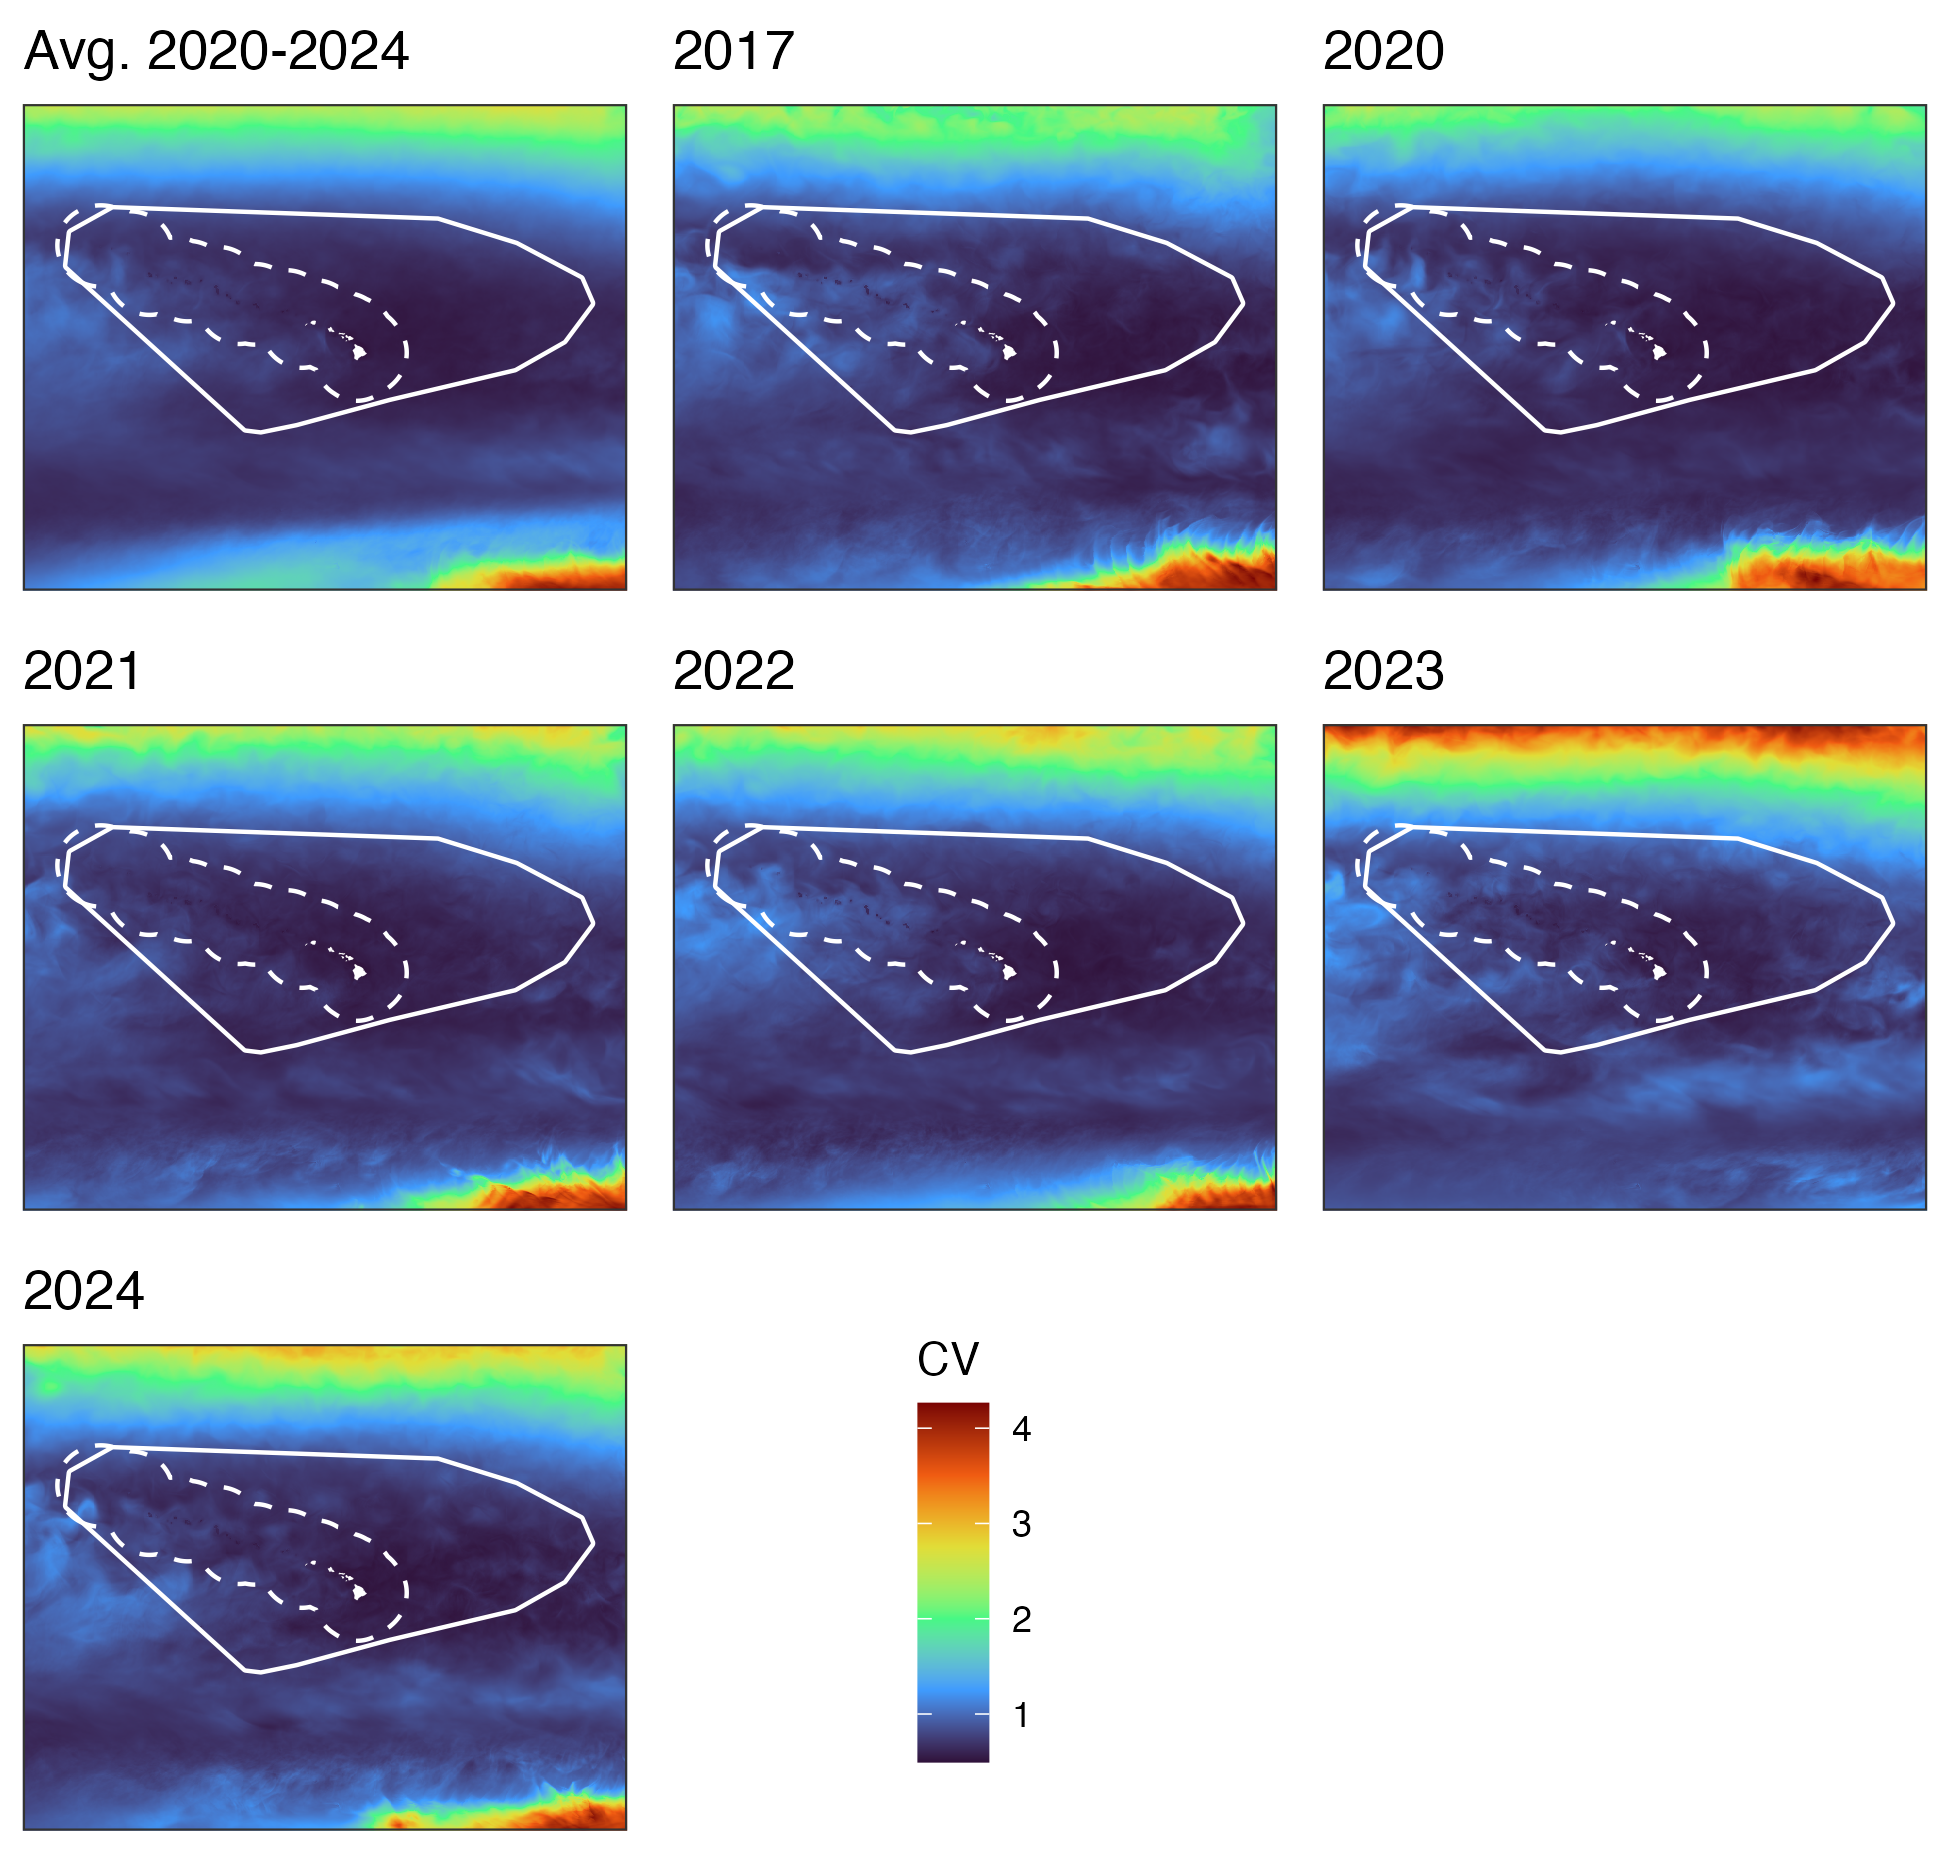
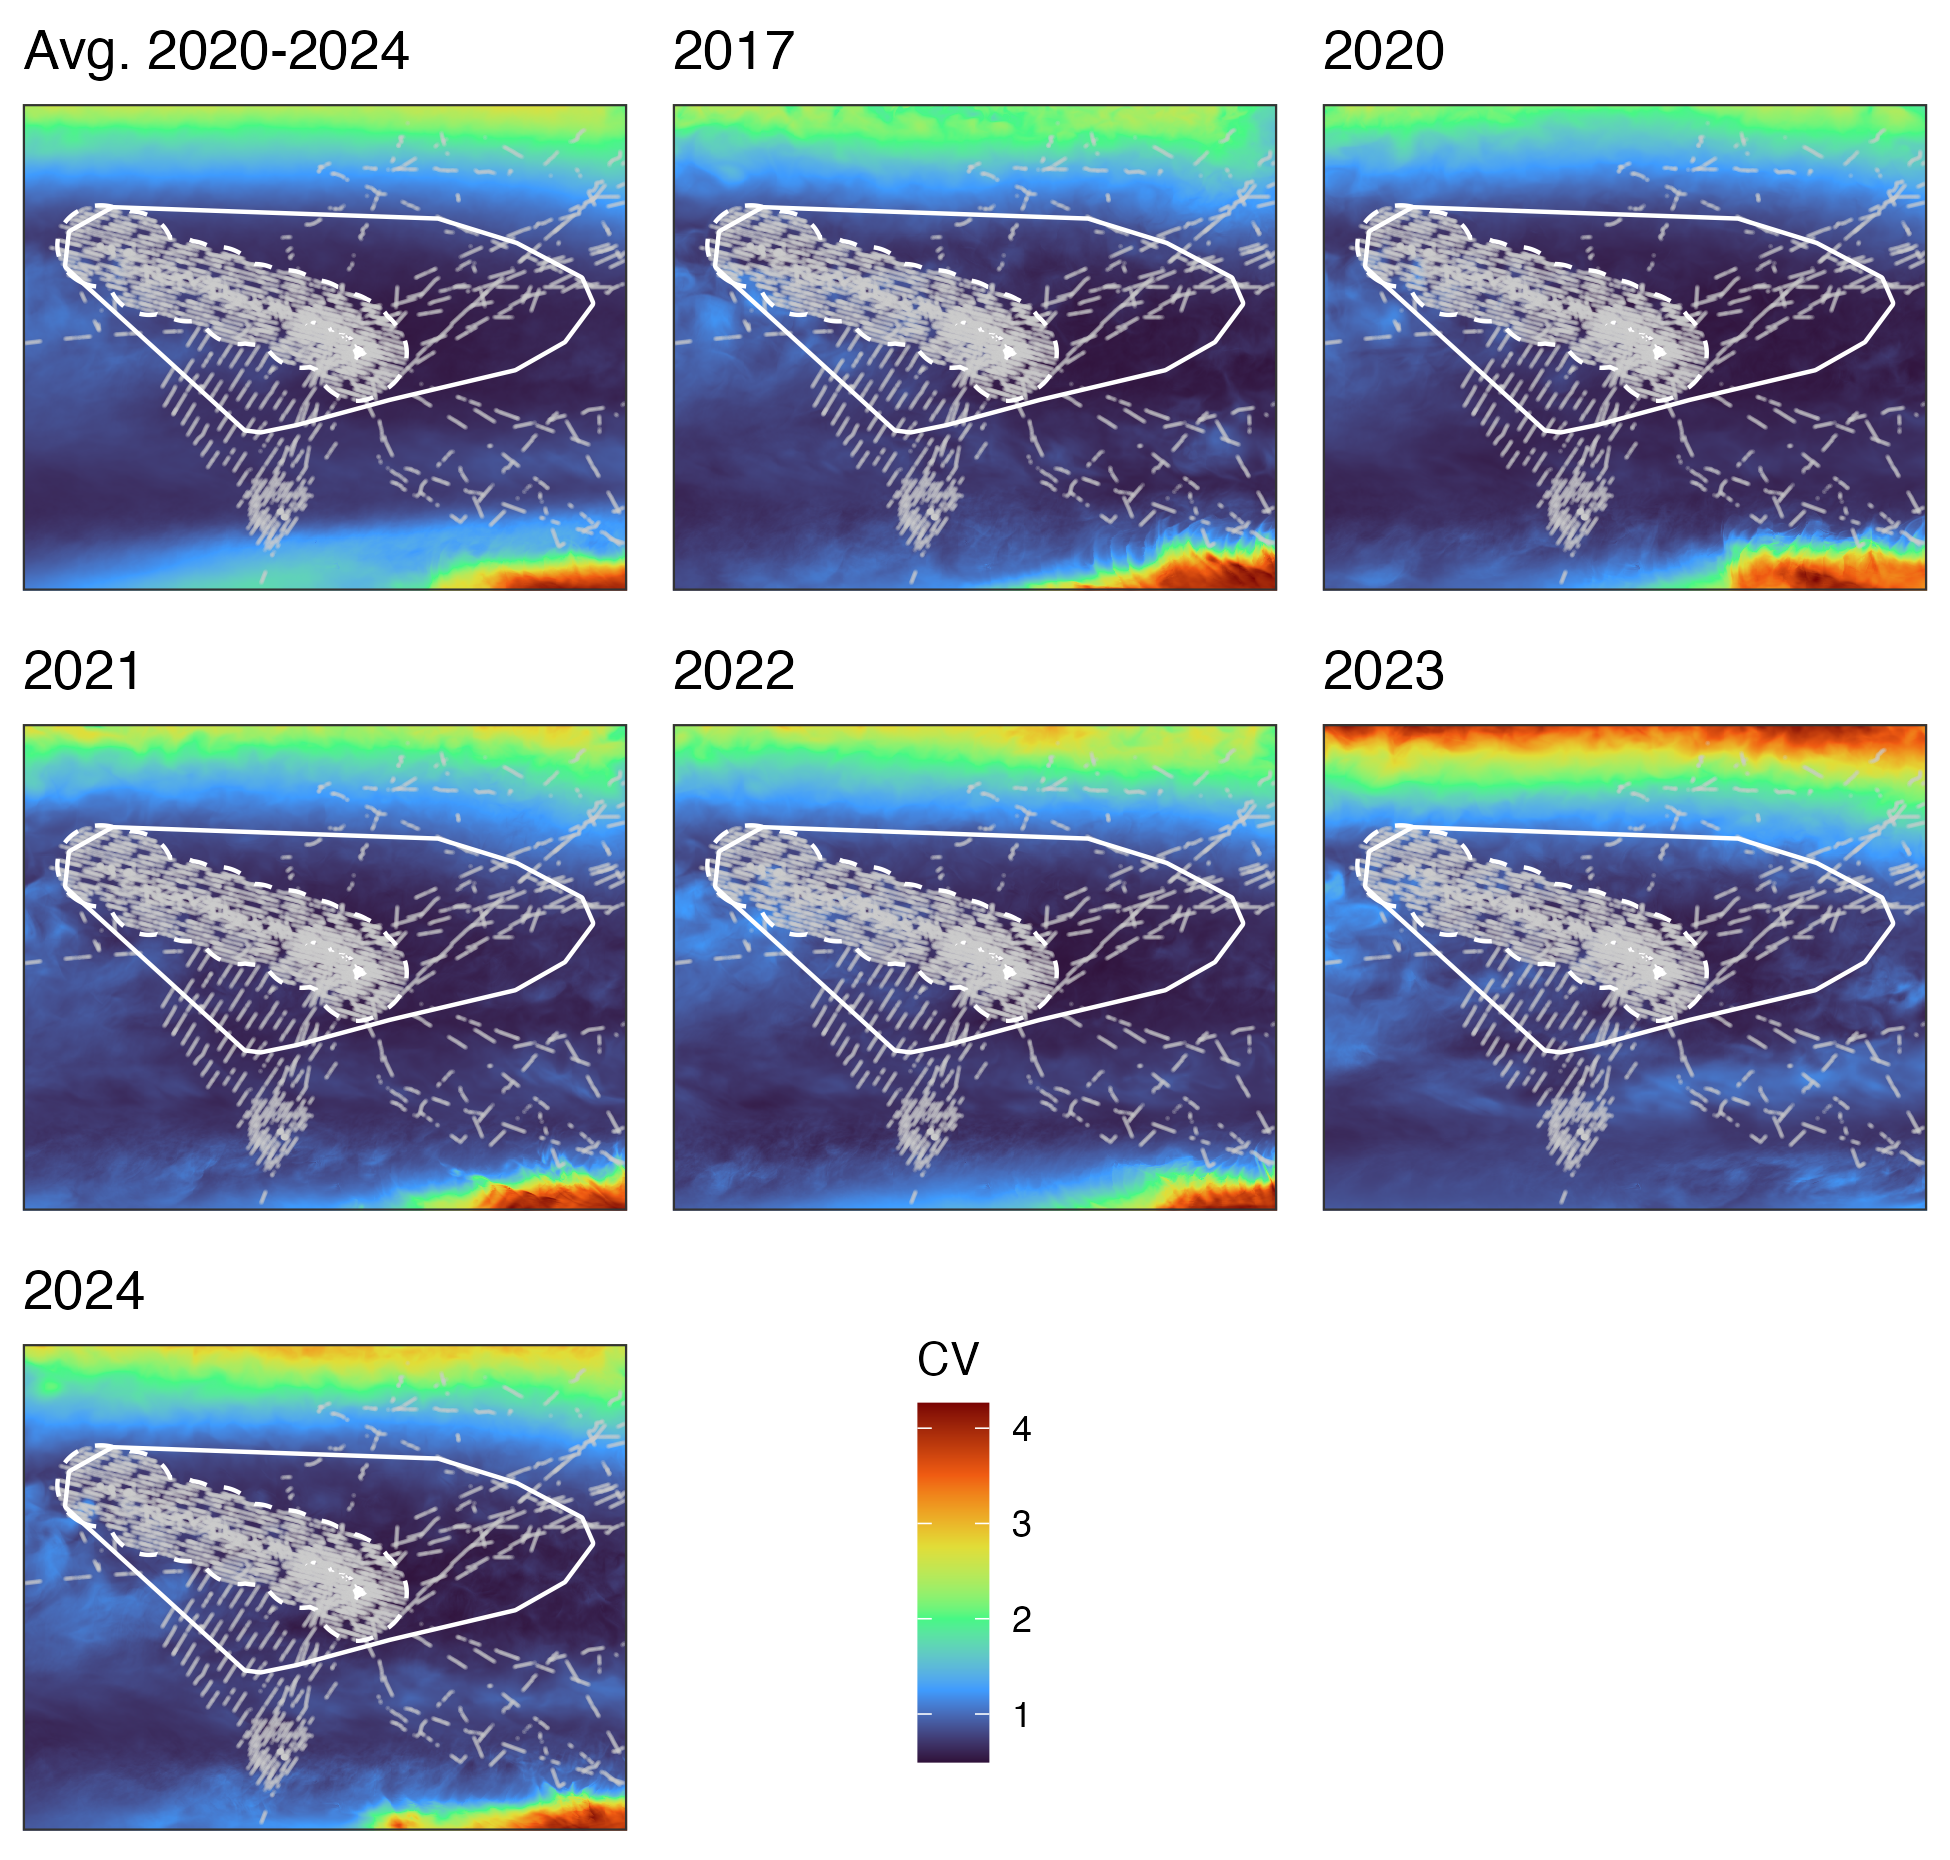
add tracks to cv plots

diff --git a/docs/content/s8_prop_var/index.html b/docs/content/s8_prop_var/index.html
@@ -622,74 +622,84 @@ pre > code.sourceCode > span > a:first-child::before { text-decoration: underlin
 <span id="cb13-2"><a href="#cb13-2" aria-hidden="true" tabindex="-1"></a>eez <span class="ot">&lt;-</span> picMaps<span class="sc">::</span><span class="fu">hawaii_eez</span>()</span>
 <span id="cb13-3"><a href="#cb13-3" aria-hidden="true" tabindex="-1"></a>fkwm <span class="ot">&lt;-</span> picMaps<span class="sc">::</span><span class="fu">pfkw_mgmt</span>()</span>
 <span id="cb13-4"><a href="#cb13-4" aria-hidden="true" tabindex="-1"></a></span>
-<span id="cb13-5"><a href="#cb13-5" aria-hidden="true" tabindex="-1"></a>ppp <span class="ot">&lt;-</span> <span class="fu">vector</span>(<span class="st">"list"</span>,<span class="fu">nlyr</span>(cv_raster))</span>
-<span id="cb13-6"><a href="#cb13-6" aria-hidden="true" tabindex="-1"></a></span>
-<span id="cb13-7"><a href="#cb13-7" aria-hidden="true" tabindex="-1"></a>ppp[[<span class="dv">1</span>]] <span class="ot">&lt;-</span> <span class="fu">ggplot</span>() <span class="sc">+</span> <span class="fu">geom_spatraster</span>(<span class="at">data=</span>cv_raster[[<span class="dv">1</span>]]) <span class="sc">+</span></span>
-<span id="cb13-8"><a href="#cb13-8" aria-hidden="true" tabindex="-1"></a>  <span class="fu">layer_spatial</span>(hi, <span class="at">fill=</span><span class="st">"white"</span>, <span class="at">color=</span><span class="cn">NA</span>) <span class="sc">+</span></span>
-<span id="cb13-9"><a href="#cb13-9" aria-hidden="true" tabindex="-1"></a>  <span class="fu">layer_spatial</span>(eez, <span class="at">color=</span><span class="st">"white"</span>, <span class="at">fill=</span><span class="cn">NA</span>, <span class="at">linetype=</span><span class="st">"dashed"</span>,<span class="at">lwd=</span><span class="fl">0.5</span>) <span class="sc">+</span></span>
-<span id="cb13-10"><a href="#cb13-10" aria-hidden="true" tabindex="-1"></a>  <span class="fu">layer_spatial</span>(fkwm, <span class="at">color=</span><span class="st">"white"</span>, <span class="at">fill=</span><span class="cn">NA</span>,<span class="at">lwd=</span><span class="fl">0.5</span>) <span class="sc">+</span></span>
-<span id="cb13-11"><a href="#cb13-11" aria-hidden="true" tabindex="-1"></a>  <span class="fu">scale_fill_viridis_c</span>(<span class="at">option =</span> <span class="st">"H"</span>, <span class="at">na.value =</span> <span class="cn">NA</span>, <span class="at">name=</span><span class="st">"CV"</span>) <span class="sc">+</span></span>
-<span id="cb13-12"><a href="#cb13-12" aria-hidden="true" tabindex="-1"></a>  <span class="fu">scale_x_continuous</span>(<span class="at">breaks=</span><span class="fu">c</span>(<span class="dv">175</span>, <span class="dv">228</span>)) <span class="sc">+</span> <span class="fu">scale_y_continuous</span>(<span class="at">breaks=</span><span class="fu">c</span>(<span class="dv">0</span>, <span class="dv">40</span>)) <span class="sc">+</span> </span>
-<span id="cb13-13"><a href="#cb13-13" aria-hidden="true" tabindex="-1"></a>  <span class="fu">theme_bw</span>() <span class="sc">+</span> <span class="co">#theme(legend.position="none") +</span></span>
-<span id="cb13-14"><a href="#cb13-14" aria-hidden="true" tabindex="-1"></a>  <span class="fu">theme</span>(<span class="at">axis.text =</span> <span class="fu">element_blank</span>(), <span class="at">axis.ticks =</span> <span class="fu">element_blank</span>()) <span class="sc">+</span></span>
-<span id="cb13-15"><a href="#cb13-15" aria-hidden="true" tabindex="-1"></a>  <span class="fu">coord_sf</span>(<span class="at">expand =</span> <span class="cn">FALSE</span>) <span class="sc">+</span> </span>
-<span id="cb13-16"><a href="#cb13-16" aria-hidden="true" tabindex="-1"></a>  <span class="fu">ggtitle</span>(<span class="st">"Avg. 2020-2024"</span>)</span>
-<span id="cb13-17"><a href="#cb13-17" aria-hidden="true" tabindex="-1"></a></span>
-<span id="cb13-18"><a href="#cb13-18" aria-hidden="true" tabindex="-1"></a>lll <span class="ot">&lt;-</span> <span class="fu">get_legend</span>(ppp[[<span class="dv">1</span>]])</span>
-<span id="cb13-19"><a href="#cb13-19" aria-hidden="true" tabindex="-1"></a>ppp[[<span class="dv">1</span>]] <span class="ot">&lt;-</span> ppp[[<span class="dv">1</span>]] <span class="sc">+</span> <span class="fu">theme</span>(<span class="at">legend.position=</span><span class="st">"none"</span>)</span>
-<span id="cb13-20"><a href="#cb13-20" aria-hidden="true" tabindex="-1"></a></span>
-<span id="cb13-21"><a href="#cb13-21" aria-hidden="true" tabindex="-1"></a></span>
-<span id="cb13-22"><a href="#cb13-22" aria-hidden="true" tabindex="-1"></a><span class="cf">for</span>(i <span class="cf">in</span> <span class="dv">2</span><span class="sc">:</span><span class="fu">nlyr</span>(cv_raster)){</span>
-<span id="cb13-23"><a href="#cb13-23" aria-hidden="true" tabindex="-1"></a>  ppp[[i]] <span class="ot">&lt;-</span> <span class="fu">ggplot</span>() <span class="sc">+</span> <span class="fu">geom_spatraster</span>(<span class="at">data=</span>cv_raster[[i]]) <span class="sc">+</span></span>
-<span id="cb13-24"><a href="#cb13-24" aria-hidden="true" tabindex="-1"></a>    <span class="fu">layer_spatial</span>(hi, <span class="at">fill=</span><span class="st">"white"</span>, <span class="at">color=</span><span class="cn">NA</span>) <span class="sc">+</span></span>
-<span id="cb13-25"><a href="#cb13-25" aria-hidden="true" tabindex="-1"></a>    <span class="fu">layer_spatial</span>(eez, <span class="at">color=</span><span class="st">"white"</span>, <span class="at">fill=</span><span class="cn">NA</span>, <span class="at">linetype=</span><span class="st">"dashed"</span>,<span class="at">lwd=</span><span class="fl">0.5</span>) <span class="sc">+</span></span>
-<span id="cb13-26"><a href="#cb13-26" aria-hidden="true" tabindex="-1"></a>    <span class="fu">layer_spatial</span>(fkwm, <span class="at">color=</span><span class="st">"white"</span>, <span class="at">fill=</span><span class="cn">NA</span>,<span class="at">lwd=</span><span class="fl">0.5</span>) <span class="sc">+</span></span>
-<span id="cb13-27"><a href="#cb13-27" aria-hidden="true" tabindex="-1"></a>    <span class="fu">scale_fill_viridis_c</span>(<span class="at">option =</span> <span class="st">"H"</span>, <span class="at">na.value =</span> <span class="cn">NA</span>, <span class="at">name=</span><span class="st">"CV"</span>) <span class="sc">+</span> </span>
-<span id="cb13-28"><a href="#cb13-28" aria-hidden="true" tabindex="-1"></a>    <span class="fu">scale_x_continuous</span>(<span class="at">breaks=</span><span class="fu">c</span>(<span class="dv">175</span>, <span class="dv">228</span>)) <span class="sc">+</span> <span class="fu">scale_y_continuous</span>(<span class="at">breaks=</span><span class="fu">c</span>(<span class="dv">0</span>, <span class="dv">40</span>)) <span class="sc">+</span> </span>
-<span id="cb13-29"><a href="#cb13-29" aria-hidden="true" tabindex="-1"></a>    <span class="fu">theme_bw</span>() <span class="sc">+</span> <span class="fu">theme</span>(<span class="at">legend.position=</span><span class="st">"none"</span>) <span class="sc">+</span></span>
-<span id="cb13-30"><a href="#cb13-30" aria-hidden="true" tabindex="-1"></a>    <span class="fu">theme</span>(<span class="at">axis.ticks =</span> <span class="fu">element_blank</span>()) <span class="sc">+</span> </span>
-<span id="cb13-31"><a href="#cb13-31" aria-hidden="true" tabindex="-1"></a>    <span class="fu">theme</span>(<span class="at">axis.text =</span> <span class="fu">element_blank</span>(), <span class="at">axis.ticks =</span> <span class="fu">element_blank</span>()) <span class="sc">+</span></span>
-<span id="cb13-32"><a href="#cb13-32" aria-hidden="true" tabindex="-1"></a>    <span class="fu">coord_sf</span>(<span class="at">expand =</span> <span class="cn">FALSE</span>) <span class="sc">+</span> </span>
-<span id="cb13-33"><a href="#cb13-33" aria-hidden="true" tabindex="-1"></a>    <span class="fu">ggtitle</span>(<span class="fu">names</span>(cv_raster)[i])</span>
-<span id="cb13-34"><a href="#cb13-34" aria-hidden="true" tabindex="-1"></a>}</span>
-<span id="cb13-35"><a href="#cb13-35" aria-hidden="true" tabindex="-1"></a></span>
-<span id="cb13-36"><a href="#cb13-36" aria-hidden="true" tabindex="-1"></a>pout <span class="ot">&lt;-</span> <span class="fu">ggarrange</span>(ppp[[<span class="dv">1</span>]], ppp[[<span class="dv">2</span>]], ppp[[<span class="dv">3</span>]], ppp[[<span class="dv">4</span>]], ppp[[<span class="dv">5</span>]], ppp[[<span class="dv">6</span>]], ppp[[<span class="dv">7</span>]],lll)</span>
-<span id="cb13-37"><a href="#cb13-37" aria-hidden="true" tabindex="-1"></a><span class="fu">ggsave</span>(pout, <span class="at">file=</span><span class="fu">file.path</span>(local_wd, <span class="st">"output"</span>,<span class="st">"cenpac_cv_fig.png"</span>), <span class="at">width=</span><span class="fl">6.5</span>, <span class="at">height=</span><span class="fl">6.2</span>)</span>
-<span id="cb13-38"><a href="#cb13-38" aria-hidden="true" tabindex="-1"></a></span>
-<span id="cb13-39"><a href="#cb13-39" aria-hidden="true" tabindex="-1"></a><span class="do">## EEZ and Assessment areas</span></span>
-<span id="cb13-40"><a href="#cb13-40" aria-hidden="true" tabindex="-1"></a>ppp <span class="ot">&lt;-</span> <span class="fu">vector</span>(<span class="st">"list"</span>,<span class="fu">nlyr</span>(cv_raster))</span>
-<span id="cb13-41"><a href="#cb13-41" aria-hidden="true" tabindex="-1"></a>eez_asses <span class="ot">&lt;-</span> <span class="fu">st_union</span>(eez, fkwm) <span class="sc">%&gt;%</span> <span class="fu">st_shift_longitude</span>()</span>
-<span id="cb13-42"><a href="#cb13-42" aria-hidden="true" tabindex="-1"></a>bound  <span class="ot">&lt;-</span> eez_asses <span class="sc">%&gt;%</span> <span class="fu">st_buffer</span>(<span class="dv">100000</span>) <span class="sc">%&gt;%</span> <span class="fu">st_shift_longitude</span>()</span>
-<span id="cb13-43"><a href="#cb13-43" aria-hidden="true" tabindex="-1"></a>cv_clip <span class="ot">&lt;-</span> <span class="fu">crop</span>(cv_raster, <span class="fu">vect</span>(bound)) <span class="sc">%&gt;%</span> <span class="fu">mask</span>(eez_asses)</span>
-<span id="cb13-44"><a href="#cb13-44" aria-hidden="true" tabindex="-1"></a></span>
-<span id="cb13-45"><a href="#cb13-45" aria-hidden="true" tabindex="-1"></a>ppp[[<span class="dv">1</span>]] <span class="ot">&lt;-</span> <span class="fu">ggplot</span>() <span class="sc">+</span> <span class="fu">geom_spatraster</span>(<span class="at">data=</span>cv_clip[[<span class="dv">1</span>]]) <span class="sc">+</span></span>
-<span id="cb13-46"><a href="#cb13-46" aria-hidden="true" tabindex="-1"></a>  <span class="fu">layer_spatial</span>(hi, <span class="at">fill=</span><span class="st">"black"</span>, <span class="at">color=</span><span class="cn">NA</span>) <span class="sc">+</span></span>
-<span id="cb13-47"><a href="#cb13-47" aria-hidden="true" tabindex="-1"></a>  <span class="fu">layer_spatial</span>(eez, <span class="at">color=</span><span class="st">"black"</span>, <span class="at">fill=</span><span class="cn">NA</span>, <span class="at">linetype=</span><span class="st">"dashed"</span>,<span class="at">lwd=</span><span class="fl">0.5</span>) <span class="sc">+</span></span>
-<span id="cb13-48"><a href="#cb13-48" aria-hidden="true" tabindex="-1"></a>  <span class="fu">layer_spatial</span>(fkwm, <span class="at">color=</span><span class="st">"black"</span>, <span class="at">fill=</span><span class="cn">NA</span>,<span class="at">lwd=</span><span class="fl">0.5</span>) <span class="sc">+</span></span>
-<span id="cb13-49"><a href="#cb13-49" aria-hidden="true" tabindex="-1"></a>  <span class="fu">scale_fill_viridis_c</span>(<span class="at">option =</span> <span class="st">"H"</span>, <span class="at">na.value =</span> <span class="cn">NA</span>, <span class="at">name=</span><span class="st">"CV"</span>) <span class="sc">+</span></span>
-<span id="cb13-50"><a href="#cb13-50" aria-hidden="true" tabindex="-1"></a>  <span class="fu">theme_bw</span>() <span class="sc">+</span> </span>
-<span id="cb13-51"><a href="#cb13-51" aria-hidden="true" tabindex="-1"></a>  <span class="fu">theme</span>(<span class="at">axis.text =</span> <span class="fu">element_blank</span>(), <span class="at">axis.ticks =</span> <span class="fu">element_blank</span>(), <span class="at">panel.grid.major =</span> <span class="fu">element_blank</span>()) <span class="sc">+</span></span>
-<span id="cb13-52"><a href="#cb13-52" aria-hidden="true" tabindex="-1"></a>  <span class="fu">coord_sf</span>(<span class="at">expand =</span> <span class="cn">FALSE</span>) <span class="sc">+</span> </span>
-<span id="cb13-53"><a href="#cb13-53" aria-hidden="true" tabindex="-1"></a>  <span class="fu">ggtitle</span>(<span class="st">"Avg. 2020-2024"</span>)</span>
-<span id="cb13-54"><a href="#cb13-54" aria-hidden="true" tabindex="-1"></a></span>
-<span id="cb13-55"><a href="#cb13-55" aria-hidden="true" tabindex="-1"></a>lll <span class="ot">&lt;-</span> <span class="fu">get_legend</span>(ppp[[<span class="dv">1</span>]])</span>
-<span id="cb13-56"><a href="#cb13-56" aria-hidden="true" tabindex="-1"></a>ppp[[<span class="dv">1</span>]] <span class="ot">&lt;-</span> ppp[[<span class="dv">1</span>]] <span class="sc">+</span> <span class="fu">theme</span>(<span class="at">legend.position=</span><span class="st">"none"</span>)</span>
-<span id="cb13-57"><a href="#cb13-57" aria-hidden="true" tabindex="-1"></a></span>
-<span id="cb13-58"><a href="#cb13-58" aria-hidden="true" tabindex="-1"></a></span>
-<span id="cb13-59"><a href="#cb13-59" aria-hidden="true" tabindex="-1"></a><span class="cf">for</span>(i <span class="cf">in</span> <span class="dv">2</span><span class="sc">:</span><span class="fu">nlyr</span>(cv_raster)){</span>
-<span id="cb13-60"><a href="#cb13-60" aria-hidden="true" tabindex="-1"></a>  ppp[[i]] <span class="ot">&lt;-</span> <span class="fu">ggplot</span>() <span class="sc">+</span> <span class="fu">geom_spatraster</span>(<span class="at">data=</span>cv_clip[[i]]) <span class="sc">+</span></span>
-<span id="cb13-61"><a href="#cb13-61" aria-hidden="true" tabindex="-1"></a>    <span class="fu">layer_spatial</span>(hi, <span class="at">fill=</span><span class="st">"black"</span>, <span class="at">color=</span><span class="cn">NA</span>) <span class="sc">+</span></span>
-<span id="cb13-62"><a href="#cb13-62" aria-hidden="true" tabindex="-1"></a>    <span class="fu">layer_spatial</span>(eez, <span class="at">color=</span><span class="st">"black"</span>, <span class="at">fill=</span><span class="cn">NA</span>, <span class="at">linetype=</span><span class="st">"dashed"</span>,<span class="at">lwd=</span><span class="fl">0.5</span>) <span class="sc">+</span></span>
-<span id="cb13-63"><a href="#cb13-63" aria-hidden="true" tabindex="-1"></a>    <span class="fu">layer_spatial</span>(fkwm, <span class="at">color=</span><span class="st">"black"</span>, <span class="at">fill=</span><span class="cn">NA</span>, <span class="at">lwd=</span><span class="fl">0.5</span>) <span class="sc">+</span></span>
-<span id="cb13-64"><a href="#cb13-64" aria-hidden="true" tabindex="-1"></a>    <span class="fu">scale_fill_viridis_c</span>(<span class="at">option =</span> <span class="st">"H"</span>, <span class="at">na.value =</span> <span class="cn">NA</span>, <span class="at">name=</span><span class="st">"CV"</span>) <span class="sc">+</span> </span>
-<span id="cb13-65"><a href="#cb13-65" aria-hidden="true" tabindex="-1"></a>    <span class="fu">theme_bw</span>() <span class="sc">+</span> <span class="fu">theme</span>(<span class="at">legend.position=</span><span class="st">"none"</span>) <span class="sc">+</span></span>
-<span id="cb13-66"><a href="#cb13-66" aria-hidden="true" tabindex="-1"></a>    <span class="fu">theme</span>(<span class="at">axis.text =</span> <span class="fu">element_blank</span>(), <span class="at">axis.ticks =</span> <span class="fu">element_blank</span>(), <span class="at">panel.grid.major =</span> <span class="fu">element_blank</span>()) <span class="sc">+</span></span>
-<span id="cb13-67"><a href="#cb13-67" aria-hidden="true" tabindex="-1"></a>    <span class="fu">coord_sf</span>(<span class="at">expand =</span> <span class="cn">FALSE</span>) <span class="sc">+</span> </span>
-<span id="cb13-68"><a href="#cb13-68" aria-hidden="true" tabindex="-1"></a>    <span class="fu">ggtitle</span>(<span class="fu">names</span>(cv_raster)[i])</span>
-<span id="cb13-69"><a href="#cb13-69" aria-hidden="true" tabindex="-1"></a>}</span>
-<span id="cb13-70"><a href="#cb13-70" aria-hidden="true" tabindex="-1"></a></span>
-<span id="cb13-71"><a href="#cb13-71" aria-hidden="true" tabindex="-1"></a>pout <span class="ot">&lt;-</span> <span class="fu">ggarrange</span>(ppp[[<span class="dv">1</span>]], ppp[[<span class="dv">2</span>]], ppp[[<span class="dv">3</span>]], ppp[[<span class="dv">4</span>]], ppp[[<span class="dv">5</span>]], ppp[[<span class="dv">6</span>]], ppp[[<span class="dv">7</span>]],lll)</span>
-<span id="cb13-72"><a href="#cb13-72" aria-hidden="true" tabindex="-1"></a><span class="fu">ggsave</span>(pout, <span class="at">file=</span><span class="fu">file.path</span>(local_wd, <span class="st">"output"</span>,<span class="st">"eez_assess_cv_fig.png"</span>), <span class="at">width=</span><span class="fl">6.5</span>, <span class="at">height=</span><span class="fl">4.5</span>)</span></code></pre></div><button title="Copy to Clipboard" class="code-copy-button"><i class="bi"></i></button></div>
+<span id="cb13-5"><a href="#cb13-5" aria-hidden="true" tabindex="-1"></a><span class="co"># Load survey data</span></span>
+<span id="cb13-6"><a href="#cb13-6" aria-hidden="true" tabindex="-1"></a><span class="fu">load</span>(<span class="fu">here</span>(<span class="st">"_R_code"</span>,<span class="st">"task_4_fit_dsm_models"</span>, <span class="st">"output"</span>,<span class="st">"dsm_model_data.RData"</span>))</span>
+<span id="cb13-7"><a href="#cb13-7" aria-hidden="true" tabindex="-1"></a>surv_loc <span class="ot">&lt;-</span> fkw_dsm_data <span class="sc">%&gt;%</span> <span class="fu">select</span>(mlon,mlat) <span class="sc">%&gt;%</span> </span>
+<span id="cb13-8"><a href="#cb13-8" aria-hidden="true" tabindex="-1"></a>  <span class="fu">st_as_sf</span>(<span class="at">coords=</span><span class="fu">c</span>(<span class="st">"mlon"</span>,<span class="st">"mlat"</span>), <span class="at">crs=</span><span class="dv">4326</span>) <span class="sc">%&gt;%</span> <span class="fu">st_shift_longitude</span>()</span>
+<span id="cb13-9"><a href="#cb13-9" aria-hidden="true" tabindex="-1"></a></span>
+<span id="cb13-10"><a href="#cb13-10" aria-hidden="true" tabindex="-1"></a></span>
+<span id="cb13-11"><a href="#cb13-11" aria-hidden="true" tabindex="-1"></a>ppp <span class="ot">&lt;-</span> <span class="fu">vector</span>(<span class="st">"list"</span>,<span class="fu">nlyr</span>(cv_raster))</span>
+<span id="cb13-12"><a href="#cb13-12" aria-hidden="true" tabindex="-1"></a></span>
+<span id="cb13-13"><a href="#cb13-13" aria-hidden="true" tabindex="-1"></a>ppp[[<span class="dv">1</span>]] <span class="ot">&lt;-</span> <span class="fu">ggplot</span>() <span class="sc">+</span> <span class="fu">geom_spatraster</span>(<span class="at">data=</span>cv_raster[[<span class="dv">1</span>]]) <span class="sc">+</span></span>
+<span id="cb13-14"><a href="#cb13-14" aria-hidden="true" tabindex="-1"></a>  <span class="fu">layer_spatial</span>(surv_loc, <span class="at">shape=</span><span class="dv">20</span>, <span class="at">color=</span><span class="fu">gray</span>(<span class="fl">0.8</span>), <span class="at">size=</span><span class="fl">0.01</span>, <span class="at">alpha=</span><span class="fl">0.25</span>) <span class="sc">+</span></span>
+<span id="cb13-15"><a href="#cb13-15" aria-hidden="true" tabindex="-1"></a>  <span class="fu">layer_spatial</span>(hi, <span class="at">fill=</span><span class="st">"white"</span>, <span class="at">color=</span><span class="cn">NA</span>) <span class="sc">+</span></span>
+<span id="cb13-16"><a href="#cb13-16" aria-hidden="true" tabindex="-1"></a>  <span class="fu">layer_spatial</span>(eez, <span class="at">color=</span><span class="st">"white"</span>, <span class="at">fill=</span><span class="cn">NA</span>, <span class="at">linetype=</span><span class="st">"dashed"</span>,<span class="at">lwd=</span><span class="fl">0.5</span>) <span class="sc">+</span></span>
+<span id="cb13-17"><a href="#cb13-17" aria-hidden="true" tabindex="-1"></a>  <span class="fu">layer_spatial</span>(fkwm, <span class="at">color=</span><span class="st">"white"</span>, <span class="at">fill=</span><span class="cn">NA</span>,<span class="at">lwd=</span><span class="fl">0.5</span>) <span class="sc">+</span></span>
+<span id="cb13-18"><a href="#cb13-18" aria-hidden="true" tabindex="-1"></a>  <span class="fu">scale_fill_viridis_c</span>(<span class="at">option =</span> <span class="st">"H"</span>, <span class="at">na.value =</span> <span class="cn">NA</span>, <span class="at">name=</span><span class="st">"CV"</span>) <span class="sc">+</span></span>
+<span id="cb13-19"><a href="#cb13-19" aria-hidden="true" tabindex="-1"></a>  <span class="fu">scale_x_continuous</span>(<span class="at">breaks=</span><span class="fu">c</span>(<span class="dv">175</span>, <span class="dv">228</span>)) <span class="sc">+</span> <span class="fu">scale_y_continuous</span>(<span class="at">breaks=</span><span class="fu">c</span>(<span class="dv">0</span>, <span class="dv">40</span>)) <span class="sc">+</span> </span>
+<span id="cb13-20"><a href="#cb13-20" aria-hidden="true" tabindex="-1"></a>  <span class="fu">theme_bw</span>() <span class="sc">+</span> <span class="co">#theme(legend.position="none") +</span></span>
+<span id="cb13-21"><a href="#cb13-21" aria-hidden="true" tabindex="-1"></a>  <span class="fu">theme</span>(<span class="at">axis.text =</span> <span class="fu">element_blank</span>(), <span class="at">axis.ticks =</span> <span class="fu">element_blank</span>()) <span class="sc">+</span></span>
+<span id="cb13-22"><a href="#cb13-22" aria-hidden="true" tabindex="-1"></a>  <span class="fu">coord_sf</span>(<span class="at">expand =</span> <span class="cn">FALSE</span>) <span class="sc">+</span> </span>
+<span id="cb13-23"><a href="#cb13-23" aria-hidden="true" tabindex="-1"></a>  <span class="fu">ggtitle</span>(<span class="st">"Avg. 2020-2024"</span>)</span>
+<span id="cb13-24"><a href="#cb13-24" aria-hidden="true" tabindex="-1"></a></span>
+<span id="cb13-25"><a href="#cb13-25" aria-hidden="true" tabindex="-1"></a>lll <span class="ot">&lt;-</span> <span class="fu">get_legend</span>(ppp[[<span class="dv">1</span>]])</span>
+<span id="cb13-26"><a href="#cb13-26" aria-hidden="true" tabindex="-1"></a>ppp[[<span class="dv">1</span>]] <span class="ot">&lt;-</span> ppp[[<span class="dv">1</span>]] <span class="sc">+</span> <span class="fu">theme</span>(<span class="at">legend.position=</span><span class="st">"none"</span>)</span>
+<span id="cb13-27"><a href="#cb13-27" aria-hidden="true" tabindex="-1"></a></span>
+<span id="cb13-28"><a href="#cb13-28" aria-hidden="true" tabindex="-1"></a></span>
+<span id="cb13-29"><a href="#cb13-29" aria-hidden="true" tabindex="-1"></a><span class="cf">for</span>(i <span class="cf">in</span> <span class="dv">2</span><span class="sc">:</span><span class="fu">nlyr</span>(cv_raster)){</span>
+<span id="cb13-30"><a href="#cb13-30" aria-hidden="true" tabindex="-1"></a>  ppp[[i]] <span class="ot">&lt;-</span> <span class="fu">ggplot</span>() <span class="sc">+</span> <span class="fu">geom_spatraster</span>(<span class="at">data=</span>cv_raster[[i]]) <span class="sc">+</span></span>
+<span id="cb13-31"><a href="#cb13-31" aria-hidden="true" tabindex="-1"></a>    <span class="fu">layer_spatial</span>(surv_loc, <span class="at">shape=</span><span class="dv">20</span>, <span class="at">color=</span><span class="fu">gray</span>(<span class="fl">0.8</span>), <span class="at">size=</span><span class="fl">0.01</span>, <span class="at">alpha=</span><span class="fl">0.25</span>) <span class="sc">+</span></span>
+<span id="cb13-32"><a href="#cb13-32" aria-hidden="true" tabindex="-1"></a>    <span class="fu">layer_spatial</span>(hi, <span class="at">fill=</span><span class="st">"white"</span>, <span class="at">color=</span><span class="cn">NA</span>) <span class="sc">+</span></span>
+<span id="cb13-33"><a href="#cb13-33" aria-hidden="true" tabindex="-1"></a>    <span class="fu">layer_spatial</span>(eez, <span class="at">color=</span><span class="st">"white"</span>, <span class="at">fill=</span><span class="cn">NA</span>, <span class="at">linetype=</span><span class="st">"dashed"</span>,<span class="at">lwd=</span><span class="fl">0.5</span>) <span class="sc">+</span></span>
+<span id="cb13-34"><a href="#cb13-34" aria-hidden="true" tabindex="-1"></a>    <span class="fu">layer_spatial</span>(fkwm, <span class="at">color=</span><span class="st">"white"</span>, <span class="at">fill=</span><span class="cn">NA</span>,<span class="at">lwd=</span><span class="fl">0.5</span>) <span class="sc">+</span></span>
+<span id="cb13-35"><a href="#cb13-35" aria-hidden="true" tabindex="-1"></a>    <span class="fu">scale_fill_viridis_c</span>(<span class="at">option =</span> <span class="st">"H"</span>, <span class="at">na.value =</span> <span class="cn">NA</span>, <span class="at">name=</span><span class="st">"CV"</span>) <span class="sc">+</span> </span>
+<span id="cb13-36"><a href="#cb13-36" aria-hidden="true" tabindex="-1"></a>    <span class="fu">scale_x_continuous</span>(<span class="at">breaks=</span><span class="fu">c</span>(<span class="dv">175</span>, <span class="dv">228</span>)) <span class="sc">+</span> <span class="fu">scale_y_continuous</span>(<span class="at">breaks=</span><span class="fu">c</span>(<span class="dv">0</span>, <span class="dv">40</span>)) <span class="sc">+</span> </span>
+<span id="cb13-37"><a href="#cb13-37" aria-hidden="true" tabindex="-1"></a>    <span class="fu">theme_bw</span>() <span class="sc">+</span> <span class="fu">theme</span>(<span class="at">legend.position=</span><span class="st">"none"</span>) <span class="sc">+</span></span>
+<span id="cb13-38"><a href="#cb13-38" aria-hidden="true" tabindex="-1"></a>    <span class="fu">theme</span>(<span class="at">axis.ticks =</span> <span class="fu">element_blank</span>()) <span class="sc">+</span> </span>
+<span id="cb13-39"><a href="#cb13-39" aria-hidden="true" tabindex="-1"></a>    <span class="fu">theme</span>(<span class="at">axis.text =</span> <span class="fu">element_blank</span>(), <span class="at">axis.ticks =</span> <span class="fu">element_blank</span>()) <span class="sc">+</span></span>
+<span id="cb13-40"><a href="#cb13-40" aria-hidden="true" tabindex="-1"></a>    <span class="fu">coord_sf</span>(<span class="at">expand =</span> <span class="cn">FALSE</span>) <span class="sc">+</span> </span>
+<span id="cb13-41"><a href="#cb13-41" aria-hidden="true" tabindex="-1"></a>    <span class="fu">ggtitle</span>(<span class="fu">names</span>(cv_raster)[i])</span>
+<span id="cb13-42"><a href="#cb13-42" aria-hidden="true" tabindex="-1"></a>}</span>
+<span id="cb13-43"><a href="#cb13-43" aria-hidden="true" tabindex="-1"></a></span>
+<span id="cb13-44"><a href="#cb13-44" aria-hidden="true" tabindex="-1"></a>pout <span class="ot">&lt;-</span> <span class="fu">ggarrange</span>(ppp[[<span class="dv">1</span>]], ppp[[<span class="dv">2</span>]], ppp[[<span class="dv">3</span>]], ppp[[<span class="dv">4</span>]], ppp[[<span class="dv">5</span>]], ppp[[<span class="dv">6</span>]], ppp[[<span class="dv">7</span>]],lll)</span>
+<span id="cb13-45"><a href="#cb13-45" aria-hidden="true" tabindex="-1"></a><span class="fu">ggsave</span>(pout, <span class="at">file=</span><span class="fu">file.path</span>(local_wd, <span class="st">"output"</span>,<span class="st">"cenpac_cv_fig.png"</span>), <span class="at">width=</span><span class="fl">6.5</span>, <span class="at">height=</span><span class="fl">6.2</span>)</span>
+<span id="cb13-46"><a href="#cb13-46" aria-hidden="true" tabindex="-1"></a></span>
+<span id="cb13-47"><a href="#cb13-47" aria-hidden="true" tabindex="-1"></a><span class="do">## EEZ and Assessment areas</span></span>
+<span id="cb13-48"><a href="#cb13-48" aria-hidden="true" tabindex="-1"></a>ppp <span class="ot">&lt;-</span> <span class="fu">vector</span>(<span class="st">"list"</span>,<span class="fu">nlyr</span>(cv_raster))</span>
+<span id="cb13-49"><a href="#cb13-49" aria-hidden="true" tabindex="-1"></a>eez_asses <span class="ot">&lt;-</span> <span class="fu">st_union</span>(eez, fkwm) <span class="sc">%&gt;%</span> <span class="fu">st_shift_longitude</span>()</span>
+<span id="cb13-50"><a href="#cb13-50" aria-hidden="true" tabindex="-1"></a>bound  <span class="ot">&lt;-</span> eez_asses <span class="sc">%&gt;%</span> <span class="fu">st_buffer</span>(<span class="dv">100000</span>) <span class="sc">%&gt;%</span> <span class="fu">st_shift_longitude</span>()</span>
+<span id="cb13-51"><a href="#cb13-51" aria-hidden="true" tabindex="-1"></a>cv_clip <span class="ot">&lt;-</span> <span class="fu">crop</span>(cv_raster, <span class="fu">vect</span>(bound)) <span class="sc">%&gt;%</span> <span class="fu">mask</span>(eez_asses)</span>
+<span id="cb13-52"><a href="#cb13-52" aria-hidden="true" tabindex="-1"></a></span>
+<span id="cb13-53"><a href="#cb13-53" aria-hidden="true" tabindex="-1"></a>ppp[[<span class="dv">1</span>]] <span class="ot">&lt;-</span> <span class="fu">ggplot</span>() <span class="sc">+</span> <span class="fu">geom_spatraster</span>(<span class="at">data=</span>cv_clip[[<span class="dv">1</span>]]) <span class="sc">+</span></span>
+<span id="cb13-54"><a href="#cb13-54" aria-hidden="true" tabindex="-1"></a>  <span class="fu">annotation_spatial</span>(surv_loc, <span class="at">shape=</span><span class="dv">20</span>, <span class="at">color=</span><span class="fu">gray</span>(<span class="fl">0.2</span>), <span class="at">size=</span><span class="fl">0.001</span>, <span class="at">alpha=</span><span class="fl">0.1</span>) <span class="sc">+</span> </span>
+<span id="cb13-55"><a href="#cb13-55" aria-hidden="true" tabindex="-1"></a>  <span class="fu">layer_spatial</span>(hi, <span class="at">fill=</span><span class="st">"black"</span>, <span class="at">color=</span><span class="cn">NA</span>) <span class="sc">+</span></span>
+<span id="cb13-56"><a href="#cb13-56" aria-hidden="true" tabindex="-1"></a>  <span class="fu">layer_spatial</span>(eez, <span class="at">color=</span><span class="st">"black"</span>, <span class="at">fill=</span><span class="cn">NA</span>, <span class="at">linetype=</span><span class="st">"dashed"</span>,<span class="at">lwd=</span><span class="fl">0.5</span>) <span class="sc">+</span></span>
+<span id="cb13-57"><a href="#cb13-57" aria-hidden="true" tabindex="-1"></a>  <span class="fu">layer_spatial</span>(fkwm, <span class="at">color=</span><span class="st">"black"</span>, <span class="at">fill=</span><span class="cn">NA</span>,<span class="at">lwd=</span><span class="fl">0.5</span>) <span class="sc">+</span></span>
+<span id="cb13-58"><a href="#cb13-58" aria-hidden="true" tabindex="-1"></a>  <span class="fu">scale_fill_viridis_c</span>(<span class="at">option =</span> <span class="st">"H"</span>, <span class="at">na.value =</span> <span class="cn">NA</span>, <span class="at">name=</span><span class="st">"CV"</span>) <span class="sc">+</span></span>
+<span id="cb13-59"><a href="#cb13-59" aria-hidden="true" tabindex="-1"></a>  <span class="fu">theme_bw</span>() <span class="sc">+</span> </span>
+<span id="cb13-60"><a href="#cb13-60" aria-hidden="true" tabindex="-1"></a>  <span class="fu">theme</span>(<span class="at">axis.text =</span> <span class="fu">element_blank</span>(), <span class="at">axis.ticks =</span> <span class="fu">element_blank</span>(), <span class="at">panel.grid.major =</span> <span class="fu">element_blank</span>()) <span class="sc">+</span></span>
+<span id="cb13-61"><a href="#cb13-61" aria-hidden="true" tabindex="-1"></a>  <span class="fu">coord_sf</span>(<span class="at">expand =</span> <span class="cn">FALSE</span>) <span class="sc">+</span> </span>
+<span id="cb13-62"><a href="#cb13-62" aria-hidden="true" tabindex="-1"></a>  <span class="fu">ggtitle</span>(<span class="st">"Avg. 2020-2024"</span>)</span>
+<span id="cb13-63"><a href="#cb13-63" aria-hidden="true" tabindex="-1"></a></span>
+<span id="cb13-64"><a href="#cb13-64" aria-hidden="true" tabindex="-1"></a>lll <span class="ot">&lt;-</span> <span class="fu">get_legend</span>(ppp[[<span class="dv">1</span>]])</span>
+<span id="cb13-65"><a href="#cb13-65" aria-hidden="true" tabindex="-1"></a>ppp[[<span class="dv">1</span>]] <span class="ot">&lt;-</span> ppp[[<span class="dv">1</span>]] <span class="sc">+</span> <span class="fu">theme</span>(<span class="at">legend.position=</span><span class="st">"none"</span>)</span>
+<span id="cb13-66"><a href="#cb13-66" aria-hidden="true" tabindex="-1"></a></span>
+<span id="cb13-67"><a href="#cb13-67" aria-hidden="true" tabindex="-1"></a></span>
+<span id="cb13-68"><a href="#cb13-68" aria-hidden="true" tabindex="-1"></a><span class="cf">for</span>(i <span class="cf">in</span> <span class="dv">2</span><span class="sc">:</span><span class="fu">nlyr</span>(cv_raster)){</span>
+<span id="cb13-69"><a href="#cb13-69" aria-hidden="true" tabindex="-1"></a>  ppp[[i]] <span class="ot">&lt;-</span> <span class="fu">ggplot</span>() <span class="sc">+</span> <span class="fu">geom_spatraster</span>(<span class="at">data=</span>cv_clip[[i]]) <span class="sc">+</span></span>
+<span id="cb13-70"><a href="#cb13-70" aria-hidden="true" tabindex="-1"></a>    <span class="fu">annotation_spatial</span>(surv_loc, <span class="at">shape=</span><span class="dv">20</span>, <span class="at">color=</span><span class="fu">gray</span>(<span class="fl">0.2</span>), <span class="at">size=</span><span class="fl">0.001</span>, <span class="at">alpha=</span><span class="fl">0.1</span>) <span class="sc">+</span> </span>
+<span id="cb13-71"><a href="#cb13-71" aria-hidden="true" tabindex="-1"></a>    <span class="fu">layer_spatial</span>(hi, <span class="at">fill=</span><span class="st">"black"</span>, <span class="at">color=</span><span class="cn">NA</span>) <span class="sc">+</span></span>
+<span id="cb13-72"><a href="#cb13-72" aria-hidden="true" tabindex="-1"></a>    <span class="fu">layer_spatial</span>(eez, <span class="at">color=</span><span class="st">"black"</span>, <span class="at">fill=</span><span class="cn">NA</span>, <span class="at">linetype=</span><span class="st">"dashed"</span>,<span class="at">lwd=</span><span class="fl">0.5</span>) <span class="sc">+</span></span>
+<span id="cb13-73"><a href="#cb13-73" aria-hidden="true" tabindex="-1"></a>    <span class="fu">layer_spatial</span>(fkwm, <span class="at">color=</span><span class="st">"black"</span>, <span class="at">fill=</span><span class="cn">NA</span>, <span class="at">lwd=</span><span class="fl">0.5</span>) <span class="sc">+</span></span>
+<span id="cb13-74"><a href="#cb13-74" aria-hidden="true" tabindex="-1"></a>    <span class="fu">scale_fill_viridis_c</span>(<span class="at">option =</span> <span class="st">"H"</span>, <span class="at">na.value =</span> <span class="cn">NA</span>, <span class="at">name=</span><span class="st">"CV"</span>) <span class="sc">+</span> </span>
+<span id="cb13-75"><a href="#cb13-75" aria-hidden="true" tabindex="-1"></a>    <span class="fu">theme_bw</span>() <span class="sc">+</span> <span class="fu">theme</span>(<span class="at">legend.position=</span><span class="st">"none"</span>) <span class="sc">+</span></span>
+<span id="cb13-76"><a href="#cb13-76" aria-hidden="true" tabindex="-1"></a>    <span class="fu">theme</span>(<span class="at">axis.text =</span> <span class="fu">element_blank</span>(), <span class="at">axis.ticks =</span> <span class="fu">element_blank</span>(), <span class="at">panel.grid.major =</span> <span class="fu">element_blank</span>()) <span class="sc">+</span></span>
+<span id="cb13-77"><a href="#cb13-77" aria-hidden="true" tabindex="-1"></a>    <span class="fu">coord_sf</span>(<span class="at">expand =</span> <span class="cn">FALSE</span>) <span class="sc">+</span> </span>
+<span id="cb13-78"><a href="#cb13-78" aria-hidden="true" tabindex="-1"></a>    <span class="fu">ggtitle</span>(<span class="fu">names</span>(cv_raster)[i])</span>
+<span id="cb13-79"><a href="#cb13-79" aria-hidden="true" tabindex="-1"></a>}</span>
+<span id="cb13-80"><a href="#cb13-80" aria-hidden="true" tabindex="-1"></a></span>
+<span id="cb13-81"><a href="#cb13-81" aria-hidden="true" tabindex="-1"></a>pout <span class="ot">&lt;-</span> <span class="fu">ggarrange</span>(ppp[[<span class="dv">1</span>]], ppp[[<span class="dv">2</span>]], ppp[[<span class="dv">3</span>]], ppp[[<span class="dv">4</span>]], ppp[[<span class="dv">5</span>]], ppp[[<span class="dv">6</span>]], ppp[[<span class="dv">7</span>]],lll)</span>
+<span id="cb13-82"><a href="#cb13-82" aria-hidden="true" tabindex="-1"></a><span class="fu">ggsave</span>(pout, <span class="at">file=</span><span class="fu">file.path</span>(local_wd, <span class="st">"output"</span>,<span class="st">"eez_assess_cv_fig.png"</span>), <span class="at">width=</span><span class="fl">6.5</span>, <span class="at">height=</span><span class="fl">4.5</span>)</span></code></pre></div><button title="Copy to Clipboard" class="code-copy-button"><i class="bi"></i></button></div>
 </div>
 </section>
 <section id="spatial-cv-figures" class="level2">